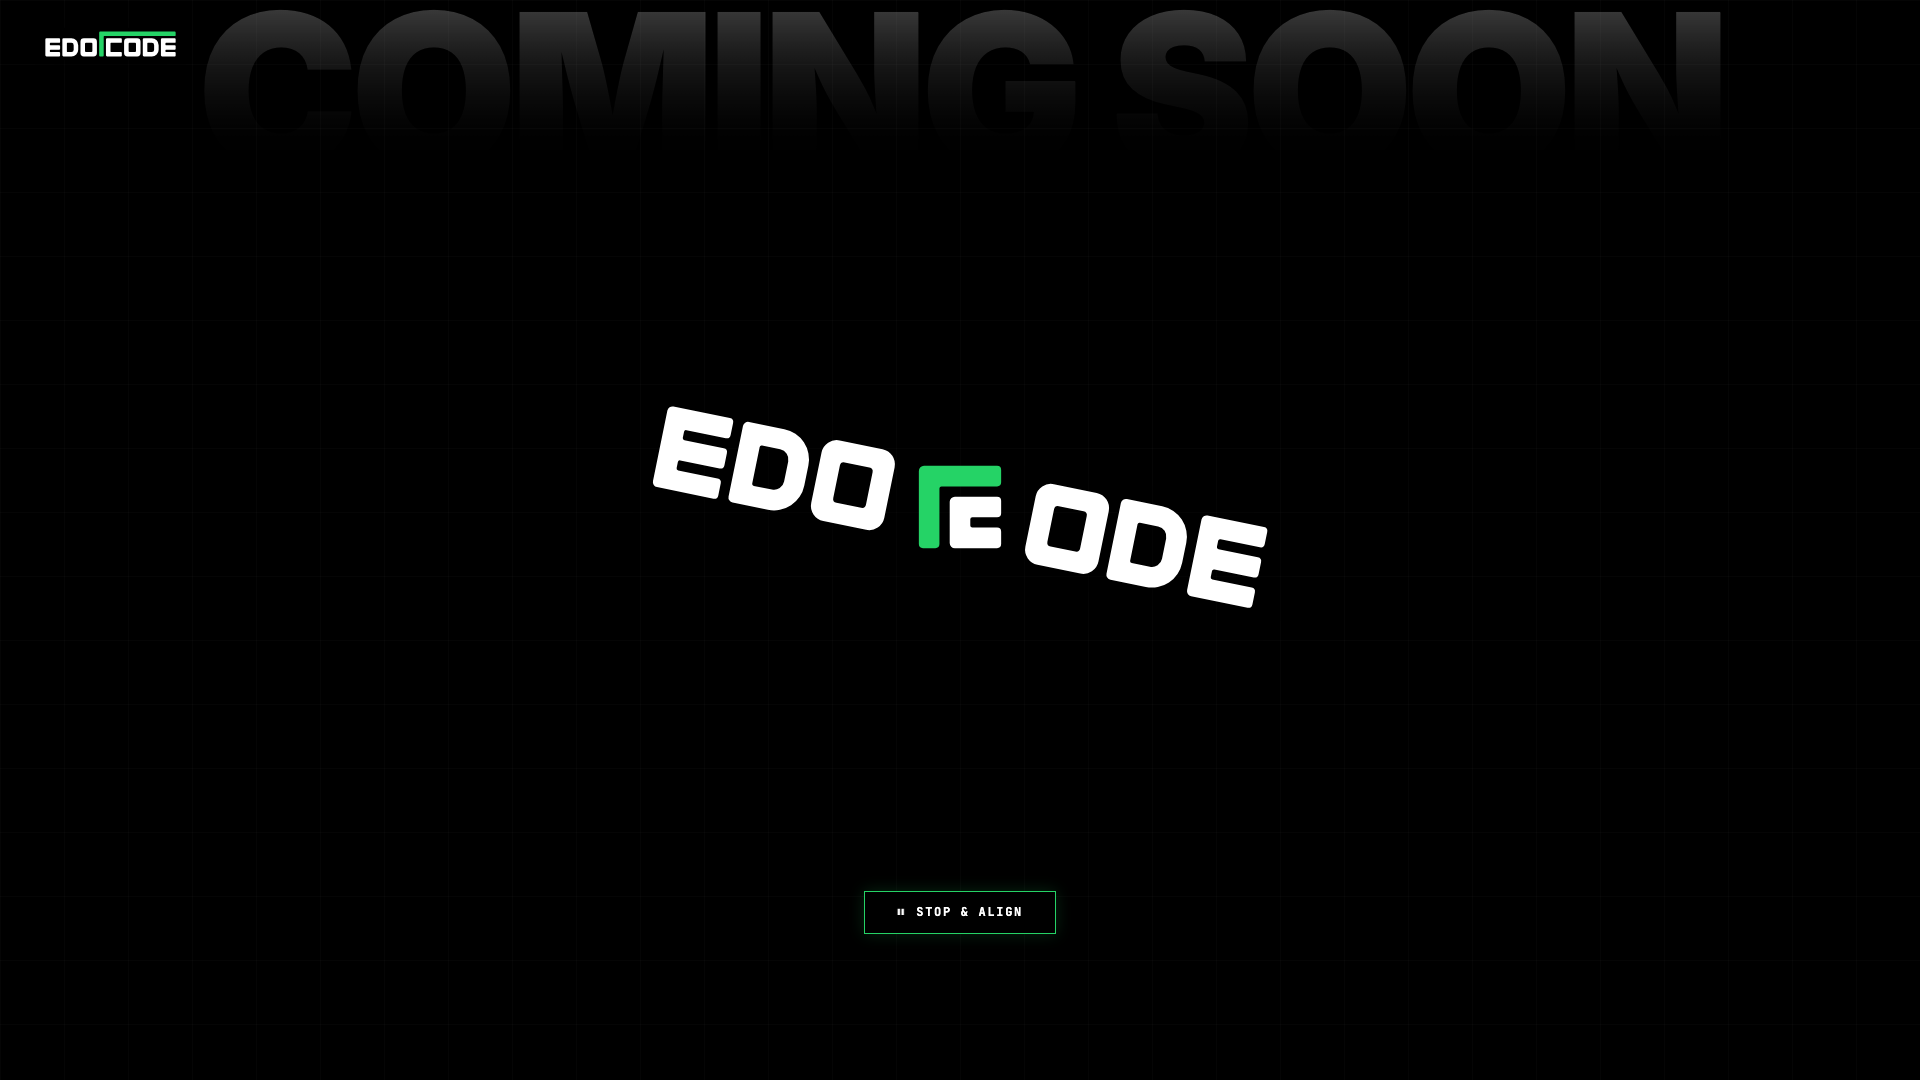
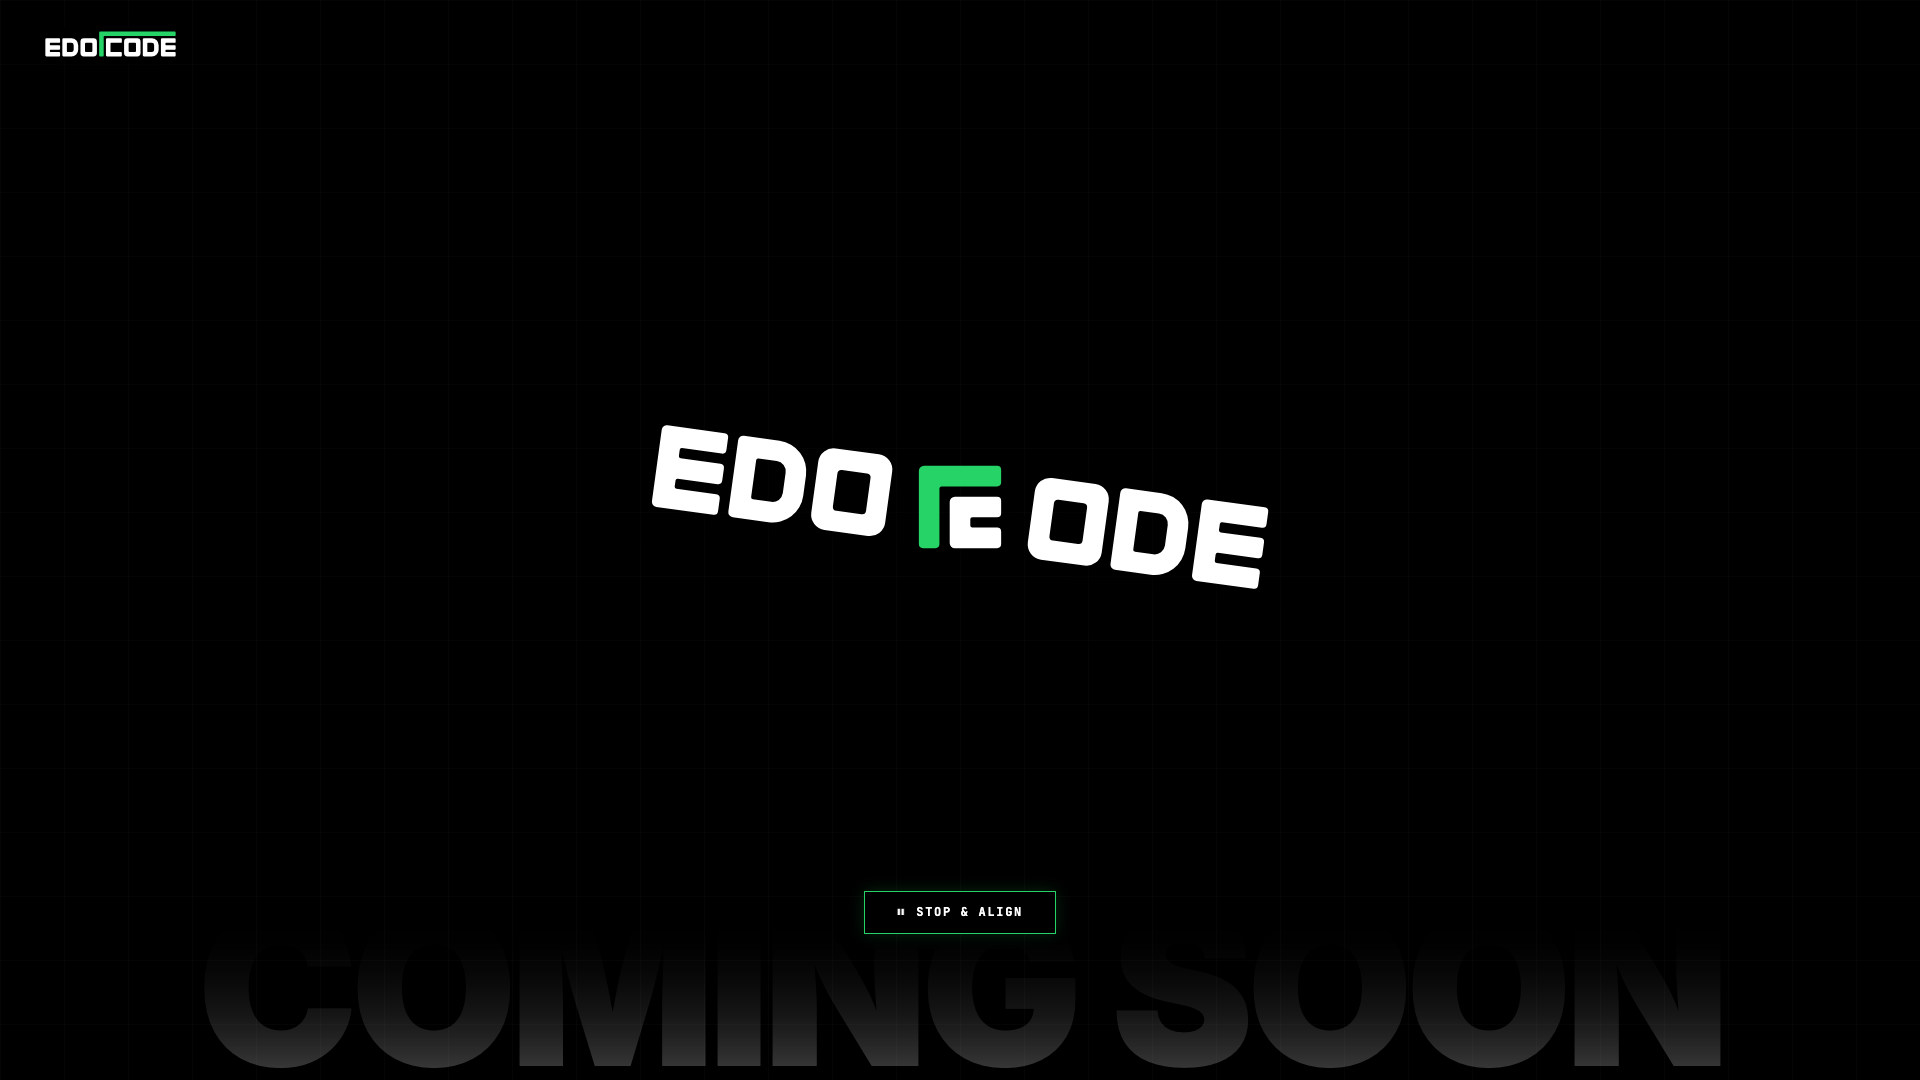
feat: position COMING SOON in the footer with upward fade

diff --git a/index.html b/index.html
@@ -190,10 +190,10 @@
       box-shadow: 0 0 25px rgba(255, 255, 255, 0.5);
     }
 
-    /* Big Faded Web-Responsive "COMING SOON" Background Text (Reverse Fade) */
+    /* Big Faded Web-Responsive "COMING SOON" in Footer (Bottom Fade) */
     .bg-coming-soon {
       position: absolute;
-      top: 0px;
+      bottom: 0px;
       left: 50%;
       transform: translateX(-50%);
       width: 100%;
@@ -209,7 +209,7 @@
       z-index: 2;
       user-select: none;
       color: rgba(255, 255, 255, 0.22);
-      background: linear-gradient(180deg, 
+      background: linear-gradient(0deg, 
         rgba(255, 255, 255, 0.25) 0%, 
         rgba(255, 255, 255, 0.12) 35%, 
         rgba(255, 255, 255, 0.02) 75%, 
@@ -217,8 +217,8 @@
       );
       -webkit-background-clip: text;
       -webkit-text-fill-color: transparent;
-      mask-image: linear-gradient(to bottom, rgba(0, 0, 0, 1) 0%, rgba(0, 0, 0, 0.65) 45%, rgba(0, 0, 0, 0) 95%);
-      -webkit-mask-image: linear-gradient(to bottom, rgba(0, 0, 0, 1) 0%, rgba(0, 0, 0, 0.65) 45%, rgba(0, 0, 0, 0) 95%);
+      mask-image: linear-gradient(to top, rgba(0, 0, 0, 1) 0%, rgba(0, 0, 0, 0.65) 45%, rgba(0, 0, 0, 0) 95%);
+      -webkit-mask-image: linear-gradient(to top, rgba(0, 0, 0, 1) 0%, rgba(0, 0, 0, 0.65) 45%, rgba(0, 0, 0, 0) 95%);
     }
 
     /* Floating Interactive Cursor Pill */
